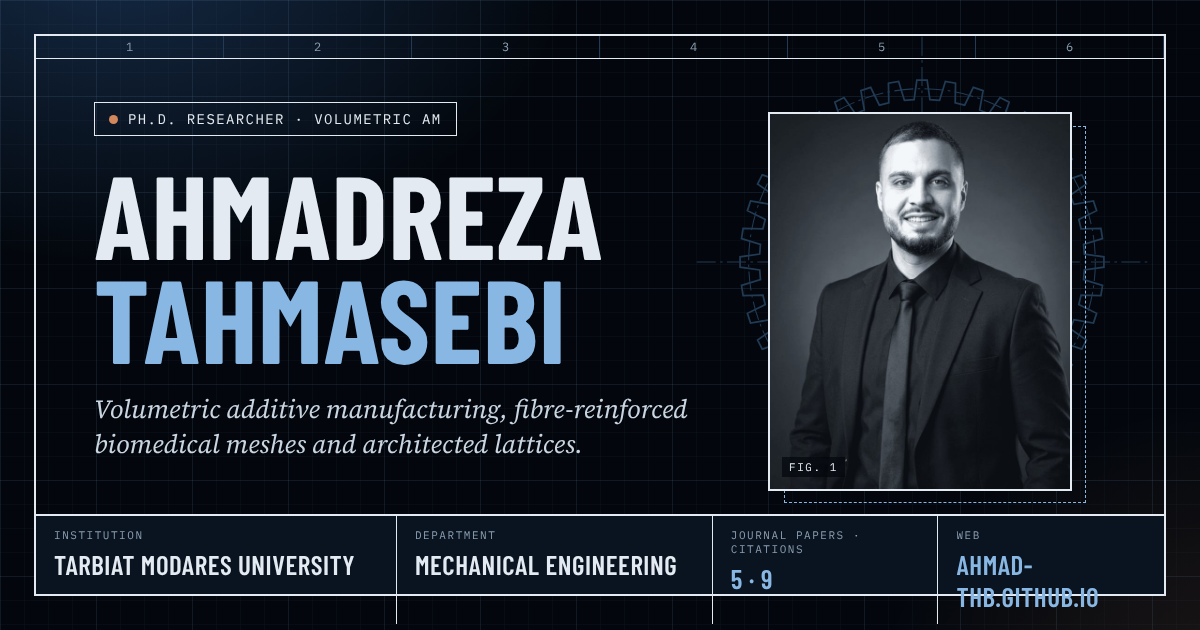
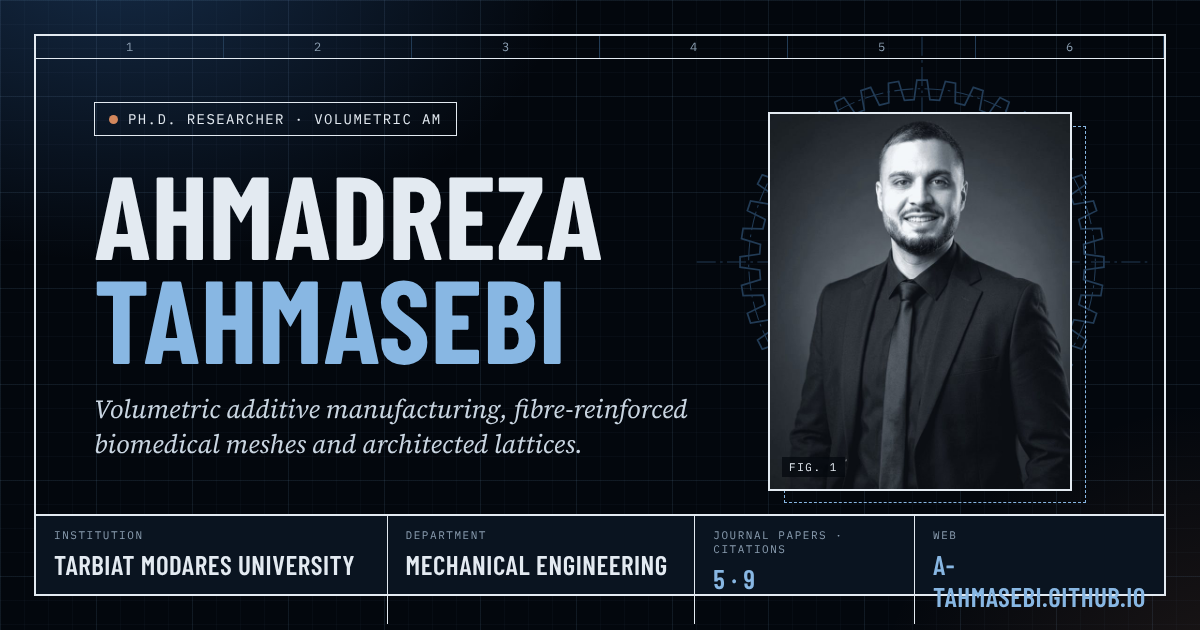
Move site address to a-tahmasebi.github.io
Claude-Session: https://claude.ai/code/session_014rgueTz71hoJ3Aus4ja6Af

diff --git a/index.html b/index.html
@@ -9,15 +9,15 @@
 <meta property="og:type" content="profile">
 <meta property="og:title" content="Ahmadreza Tahmasebi · Mechanical Engineering Ph.D. researcher">
 <meta property="og:description" content="Ahmadreza Tahmasebi, Ph.D. researcher in mechanical engineering at Tarbiat Modares University: volumetric additive manufacturing, fibre-reinforced biomedical meshes and architected lattices.">
-<meta property="og:image" content="https://ahmad-thb.github.io/og.png">
+<meta property="og:image" content="https://a-tahmasebi.github.io/og.png">
 <meta property="og:image:width" content="1200">
 <meta property="og:image:height" content="630">
-<meta property="og:url" content="https://ahmad-thb.github.io/">
+<meta property="og:url" content="https://a-tahmasebi.github.io/">
 <meta name="twitter:card" content="summary_large_image">
 <link rel="preload" href="assets/fonts/sofia-sans-condensed-latin-wght-normal.woff2" as="font" type="font/woff2" crossorigin>
 <link rel="stylesheet" href="assets/fonts/fonts.css">
-<link rel="canonical" href="https://ahmad-thb.github.io/">
-<script type="application/ld+json">{"@context": "https://schema.org", "@type": "Person", "name": "Ahmadreza Tahmasebi", "alternateName": ["Ahmadreza Tahmasbi", "Ahmad Reza Tahmasebi"], "jobTitle": "Ph.D. researcher in Mechanical Engineering", "url": "https://ahmad-thb.github.io/", "image": "https://ahmad-thb.github.io/og.png", "affiliation": {"@type": "CollegeOrUniversity", "name": "Tarbiat Modares University", "address": "Tehran, Iran"}, "alumniOf": [{"@type": "CollegeOrUniversity", "name": "Tarbiat Modares University"}, {"@type": "CollegeOrUniversity", "name": "Islamic Azad University"}], "knowsAbout": ["Additive manufacturing", "Volumetric additive manufacturing", "Direct ink writing", "Continuous fibre-reinforced composites", "Mechanical metamaterials", "Biomedical engineering"], "identifier": {"@type": "PropertyValue", "propertyID": "ORCID", "value": "0009-0008-6330-8105"}, "sameAs": ["https://orcid.org/0009-0008-6330-8105", "https://scholar.google.com/citations?user=3OH_9tcAAAAJ", "https://www.researchgate.net/profile/Ahmadreza-Tahmasebi", "https://www.alphaxiv.org/@ahmadreza-tahmasebi", "https://www.linkedin.com/in/ahmadreza-tahmasbi/"]}</script>
+<link rel="canonical" href="https://a-tahmasebi.github.io/">
+<script type="application/ld+json">{"@context": "https://schema.org", "@type": "Person", "name": "Ahmadreza Tahmasebi", "alternateName": ["Ahmadreza Tahmasbi", "Ahmad Reza Tahmasebi"], "jobTitle": "Ph.D. researcher in Mechanical Engineering", "url": "https://a-tahmasebi.github.io/", "image": "https://a-tahmasebi.github.io/og.png", "affiliation": {"@type": "CollegeOrUniversity", "name": "Tarbiat Modares University", "address": "Tehran, Iran"}, "alumniOf": [{"@type": "CollegeOrUniversity", "name": "Tarbiat Modares University"}, {"@type": "CollegeOrUniversity", "name": "Islamic Azad University"}], "knowsAbout": ["Additive manufacturing", "Volumetric additive manufacturing", "Direct ink writing", "Continuous fibre-reinforced composites", "Mechanical metamaterials", "Biomedical engineering"], "identifier": {"@type": "PropertyValue", "propertyID": "ORCID", "value": "0009-0008-6330-8105"}, "sameAs": ["https://orcid.org/0009-0008-6330-8105", "https://scholar.google.com/citations?user=3OH_9tcAAAAJ", "https://www.researchgate.net/profile/Ahmadreza-Tahmasebi", "https://www.alphaxiv.org/@ahmadreza-tahmasebi", "https://www.linkedin.com/in/ahmadreza-tahmasbi/"]}</script>
 <link rel="icon" type="image/png" sizes="32x32" href="assets/icons/favicon-32.png">
 <link rel="apple-touch-icon" href="assets/icons/apple-touch-icon.png">
 <link rel="stylesheet" href="assets/style.css">

diff --git a/work/hernia-mesh.html b/work/hernia-mesh.html
@@ -9,12 +9,12 @@
 <meta property="og:type" content="article">
 <meta property="og:title" content="Surgical mesh reinforced with PGA fibre · Ahmadreza Tahmasebi">
 <meta property="og:description" content="Case study: a biodegradable hernia mesh printed by direct ink writing, with continuous PGA suture fibre in a PCL matrix and a ZnO antibacterial coating.">
-<meta property="og:image" content="https://ahmad-thb.github.io/og.png">
-<meta property="og:url" content="https://ahmad-thb.github.io/work/hernia-mesh.html">
+<meta property="og:image" content="https://a-tahmasebi.github.io/og.png">
+<meta property="og:url" content="https://a-tahmasebi.github.io/work/hernia-mesh.html">
 <meta name="twitter:card" content="summary_large_image">
 <link rel="preload" href="../assets/fonts/sofia-sans-condensed-latin-wght-normal.woff2" as="font" type="font/woff2" crossorigin>
 <link rel="stylesheet" href="../assets/fonts/fonts.css">
-<link rel="canonical" href="https://ahmad-thb.github.io/work/hernia-mesh.html">
+<link rel="canonical" href="https://a-tahmasebi.github.io/work/hernia-mesh.html">
 <link rel="icon" type="image/png" sizes="32x32" href="../assets/icons/favicon-32.png">
 <link rel="apple-touch-icon" href="../assets/icons/apple-touch-icon.png">
 <link rel="stylesheet" href="../assets/style.css">

diff --git a/work/hivam.html b/work/hivam.html
@@ -9,12 +9,12 @@
 <meta property="og:type" content="article">
 <meta property="og:title" content="Hybrid injection–volumetric printing · Ahmadreza Tahmasebi">
 <meta property="og:description" content="Case study: HIVAM pairs volumetric curing with in-situ injection to print opaque, filled and low-viscosity resins and reinforced parts.">
-<meta property="og:image" content="https://ahmad-thb.github.io/og.png">
-<meta property="og:url" content="https://ahmad-thb.github.io/work/hivam.html">
+<meta property="og:image" content="https://a-tahmasebi.github.io/og.png">
+<meta property="og:url" content="https://a-tahmasebi.github.io/work/hivam.html">
 <meta name="twitter:card" content="summary_large_image">
 <link rel="preload" href="../assets/fonts/sofia-sans-condensed-latin-wght-normal.woff2" as="font" type="font/woff2" crossorigin>
 <link rel="stylesheet" href="../assets/fonts/fonts.css">
-<link rel="canonical" href="https://ahmad-thb.github.io/work/hivam.html">
+<link rel="canonical" href="https://a-tahmasebi.github.io/work/hivam.html">
 <link rel="icon" type="image/png" sizes="32x32" href="../assets/icons/favicon-32.png">
 <link rel="apple-touch-icon" href="../assets/icons/apple-touch-icon.png">
 <link rel="stylesheet" href="../assets/style.css">

diff --git a/404.html b/404.html
@@ -9,8 +9,8 @@
 <meta property="og:type" content="article">
 <meta property="og:title" content="Page not found · Ahmadreza Tahmasebi">
 <meta property="og:description" content="This page is not in the drawing set.">
-<meta property="og:image" content="https://ahmad-thb.github.io/og.png">
-<meta property="og:url" content="https://ahmad-thb.github.io/404.html">
+<meta property="og:image" content="https://a-tahmasebi.github.io/og.png">
+<meta property="og:url" content="https://a-tahmasebi.github.io/404.html">
 <meta name="twitter:card" content="summary_large_image">
 <link rel="preload" href="/assets/fonts/sofia-sans-condensed-latin-wght-normal.woff2" as="font" type="font/woff2" crossorigin>
 <link rel="stylesheet" href="/assets/fonts/fonts.css">

diff --git a/README.md b/README.md
@@ -1,5 +1,5 @@
-# ahmad-thb.github.io
+# a-tahmasebi.github.io
 
 Personal academic website of Ahmadreza Tahmasebi, Ph.D. researcher in Mechanical Engineering at Tarbiat Modares University.
 
-Live: https://ahmad-thb.github.io
+Live: https://a-tahmasebi.github.io
